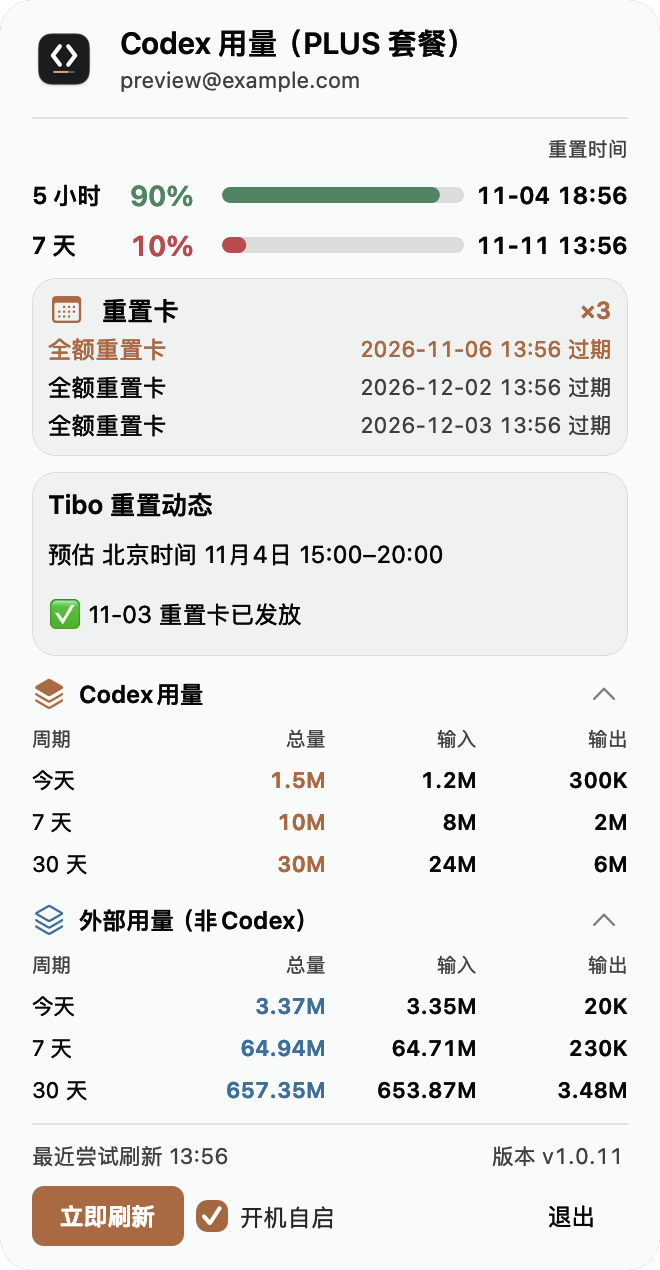
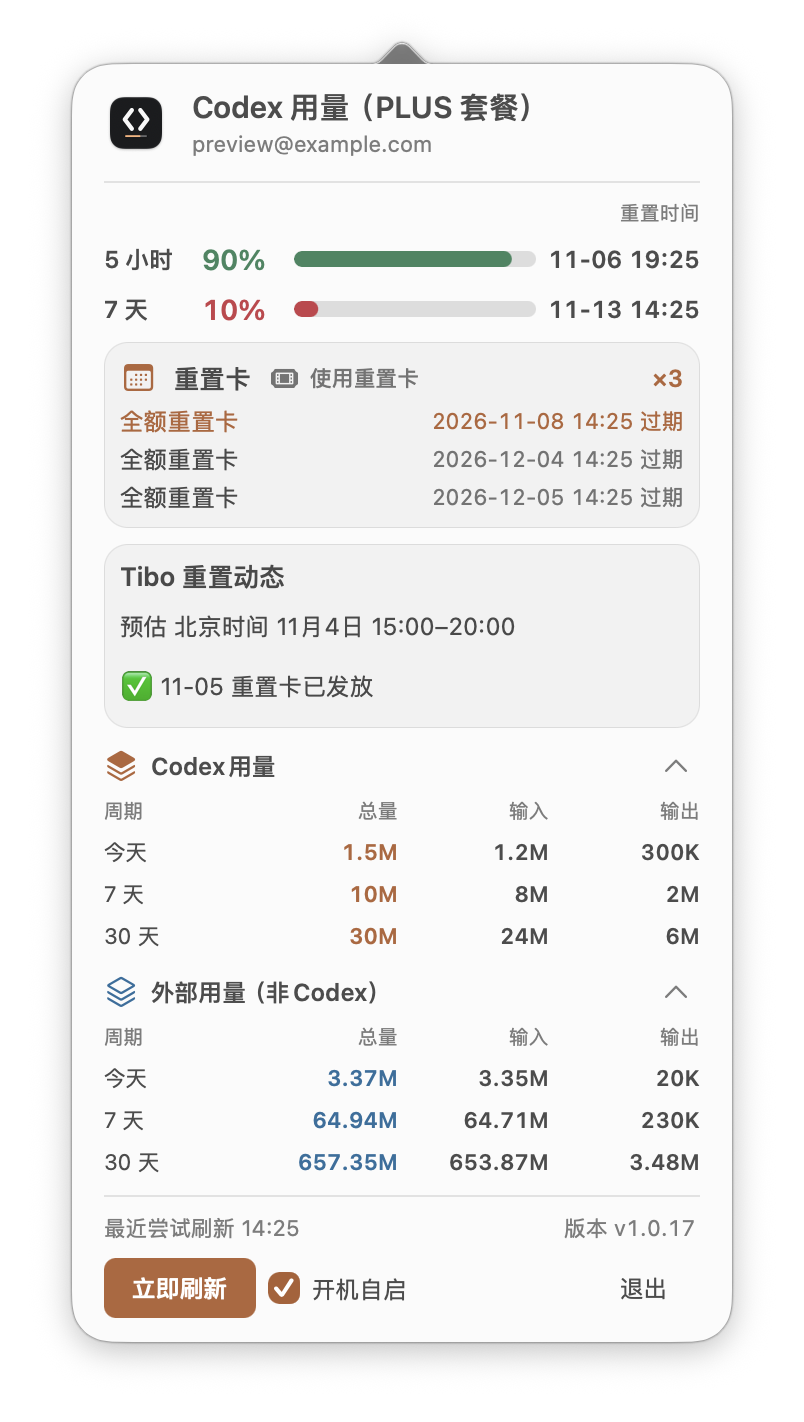
docs: 更新应用截图与功能介绍

Changed region(s): [[0.0303, 0.0, 0.9697, 0.9827]]

diff --git a/README.md b/README.md
@@ -16,11 +16,14 @@
 ## 能做什么
 
 - **随时看额度**：菜单栏显示 5 小时和 7 天剩余百分比，点开即可查看重置时间。
-- **管理重置卡和动态**：查看重置卡及到期时间，确认后可使用一张即将到期的卡；结果未知时可用原请求重试。查看近期额度重置动态，预告时间仅供参考。
+- **管理重置卡和动态**：查看重置卡数量和到期时间，确认后可使用最早到期的可用卡；结果未知时可确认后用原请求重试。查看近期额度重置动态，预告时间仅供参考。
 - **回顾使用情况**：查看今天、近 7 天和近 30 天的 Token 用量，分别展示输入与输出；点击周期整行可展开各模型明细。
-- **了解其他工具用量**：单独查看本机部分其他 AI 工具使用 OpenAI 模型的用量，与 Codex 用量分开展示。
+- **了解其他工具用量**：单独查看本机 Proma、Claude Code 和 Hermes 中可读取的 OpenAI 模型用量，与 Codex 用量分开展示。
+- **方便日常使用**：支持立即刷新、开机自启和面板内更新进度。
 
 额度来自当前登录账号；Token 用量根据本机可读取的会话记录统计，不代表其他设备的完整用量。
+
+重置卡使用后可能消耗一张卡且无法撤销。用卡接口已通过模拟响应验证，尚未进行真实兑换测试。
 
 ## 安装
 
